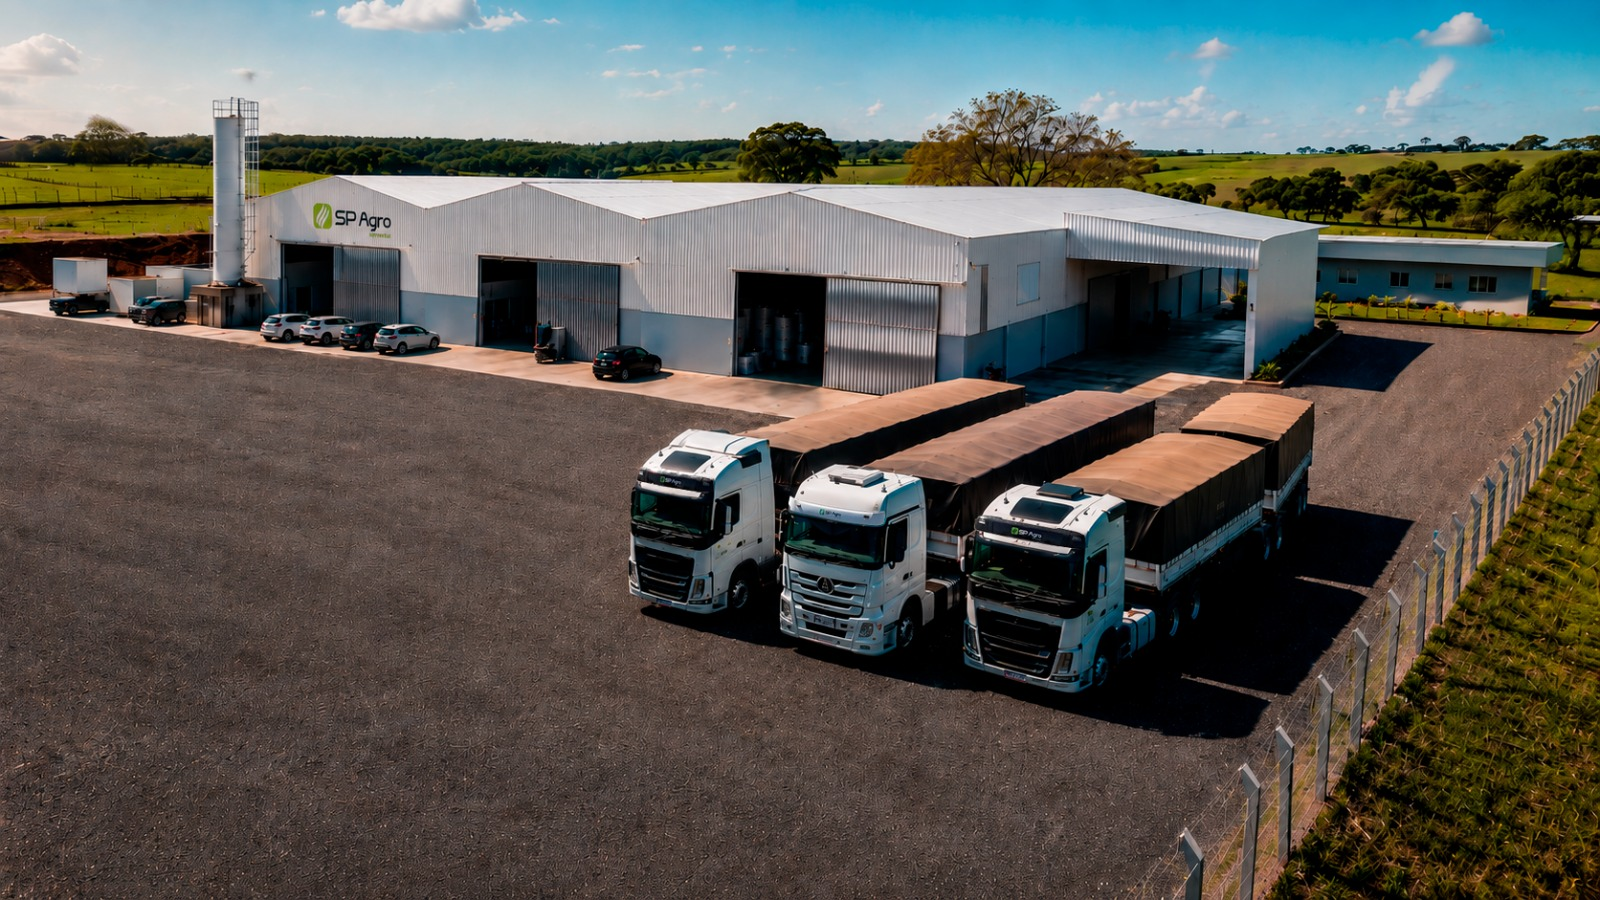
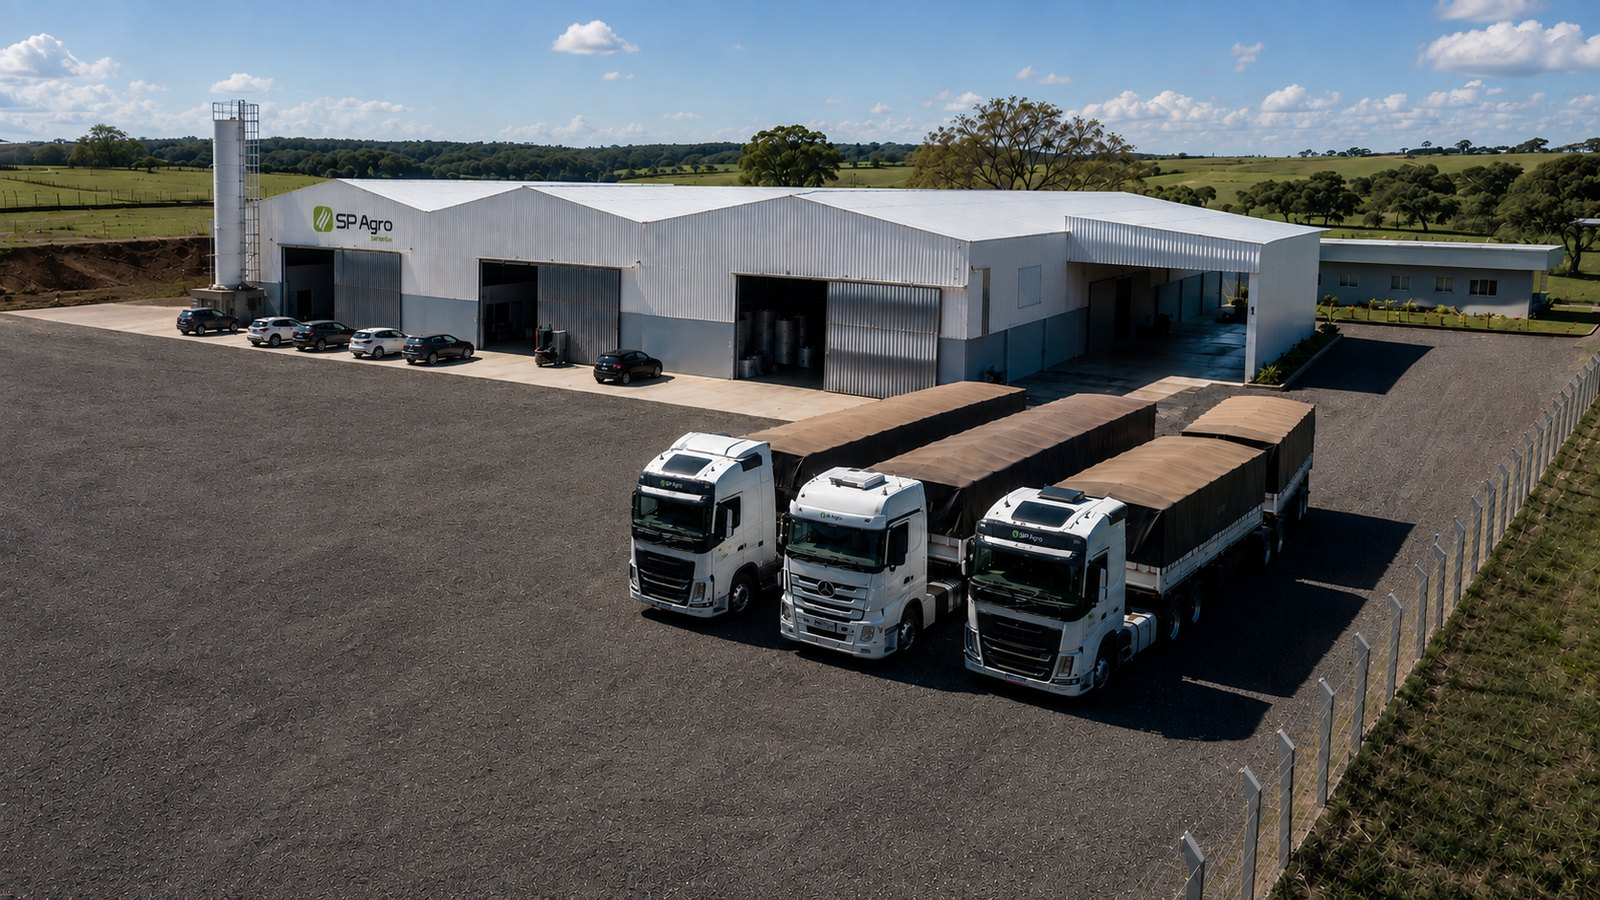
fix(mobile): topo mais limpo no celular e foto nova da fabrica
Pedido do Junio por audio (11/08): "a gente ta achando muito poluido essa
parte ai de cima" no celular. A primeira dobra pedia quatro acoes ao mesmo
tempo — cotacao no header fixo, os dois botoes do hero e o WhatsApp
flutuante — e ainda repetia a mesma frase tres vezes.

Cortes, todos dentro de @media(max-width:700px) — desktop intacto:
- eyebrow "Qualidade, tecnologia e confianca" sai: o h1 logo abaixo diz o mesmo
- os 3 chips saem: o que diziam foi absorvido pela versao curta do lead
- lead ganha versao curta (6 linhas viram 3) via .lead-curta/.lead-longa
- botao secundario sai: o header ja cobre o contato, o zap fica sempre na
  tela, e ele apontava pro form que ainda nao envia

Sete blocos na primeira tela viraram quatro.

Foto do hero trocada pela versao que o Junio mandou editada: sumiram o
conteiner branco e o monte de terra da esquerda, o que ajuda no mesmo pedido.
Os defeitos de IA que ele apontou estao nos carros pequenos junto ao barracao
— a ~40px de altura atras do gradiente de 34-92% nao aparecem; os caminhoes,
que sao o assunto da foto, estao integros. Mesmo nome de arquivo, 1600x900,
349KB (era 446KB). A original real segue intacta em fabrica-drone-hd.jpg.

diff --git a/css/site.css b/css/site.css
@@ -71,6 +71,7 @@
   .hero-actions{display:flex;gap:16px;flex-wrap:wrap;margin-bottom:56px}
   .hero-strip{display:flex;flex-wrap:wrap;gap:14px}
   .hero-strip span{font-size:13px;font-weight:600;background:rgba(255,255,255,.1);border:1px solid rgba(255,255,255,.25);padding:9px 16px;border-radius:999px}
+  .lead-curta{display:none}
 
   /* quem somos */
   #empresa{background:var(--cream)}
@@ -439,4 +440,21 @@
   @media(max-width:700px){
     #home .eyebrow,#home h1,#home .lead{text-shadow:0 2px 14px rgba(8,38,22,.6)}
     #home,html.embed #home{background-image:linear-gradient(180deg,rgba(8,38,22,.34) 0%,rgba(8,38,22,.48) 52%,rgba(8,38,22,.92) 100%),url('../images/fabrica-drone.jpg')}
+  }
+
+  /* ---- topo mais limpo no celular (pedido do Junio, 11/08) ----
+     ponytail: na tela pequena o eyebrow e os 3 chips repetem, palavra por palavra,
+     o que o h1 e o proprio lead ja dizem — tirar redundancia limpa mais do que
+     encolher fonte. O lead ganha uma versao curta que absorve o que os chips
+     diziam. Desktop segue igual: tudo isso volta acima de 700px. */
+  @media(max-width:700px){
+    #home .eyebrow,.hero-strip{display:none}
+    .lead-longa{display:none}
+    .lead-curta{display:inline}
+    #home .lead{margin-bottom:26px}
+    .hero-actions{margin-bottom:0}
+    /* na tela pequena a primeira dobra pedia 4 acoes ao mesmo tempo: cotacao no
+       header (fixo), os dois botoes daqui e o WhatsApp flutuante. O secundario e
+       o que sai — o header ja cobre o contato e o zap fica sempre na tela. */
+    .hero-actions .btn-outline{display:none}
   }

diff --git a/index.html b/index.html
@@ -67,7 +67,7 @@
   <div class="wrap hero-inner">
     <span class="eyebrow">Qualidade, tecnologia e confiança</span>
     <h1>Tecnologia, estrutura e qualidade para o crescimento do campo</h1>
-    <p class="lead">A SP Agro integra produção, beneficiamento, controle de qualidade e tecnologia para entregar sementes de pastagem com segurança, eficiência e resultado.</p>
+    <p class="lead"><span class="lead-longa">A SP Agro integra produção, beneficiamento, controle de qualidade e tecnologia para entregar sementes de pastagem com segurança, eficiência e resultado.</span><span class="lead-curta">Sementes de pastagem com fabricação própria, controle de qualidade e tecnologia aplicada.</span></p>
     <div class="hero-actions">
       <a href="#estrutura" class="btn btn-primary">Conheça nossa estrutura</a>
       <a href="#contato" class="btn btn-outline">Fale com nossa equipe</a>
